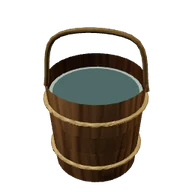
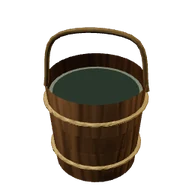
Avance: la col y el nabo mustios sin manchas oscuras (pajizos, bajos y abiertos); el agua del cubo, turbia y apagada; iconos-v29 otra vez con ella; la prueba del navegador espera más al cubo
Claude-Session: https://claude.ai/code/session_01Rt7ggQuNtkprJw3vKFqCwb

Changed region(s): [[0.25, 0.3438, 0.75, 0.5625]]

diff --git a/src/juego/campos_vista.js b/src/juego/campos_vista.js
@@ -178,16 +178,15 @@ const FORMAS = {};
 const forma = (cultivo, f, mustia = false) => (FORMAS[cultivo + f + (mustia ? 'm' : '')] ||= mustia ? mustiar(forma(cultivo, f)) : formaPlanta(cultivo, f));
 // La planta mustia (regar el huerto, P11b): sin agua desde hace días, las hojas caen y se abren (más baja y más ancha) y
 // pierden el verde hacia un pardo amarillento
-const MUSTIO = C(0x9a8a52);
+const MUSTIO = C(0xa89a5c);
 function mustiar(g0) {
   const g = g0.clone(), p = g.attributes.position, c = g.attributes.color;
   for (let i = 0; i < p.count; i++) {
     const y = p.getY(i), caida = Math.min(1, y / 0.25);
     p.setXYZ(i, p.getX(i) * (1 + 0.18 * caida), y * 0.6, p.getZ(i) * (1 + 0.18 * caida));
-    c.setXYZ(i, c.getX(i) + (MUSTIO.r - c.getX(i)) * 0.5, c.getY(i) + (MUSTIO.g - c.getY(i)) * 0.5, c.getZ(i) + (MUSTIO.b - c.getZ(i)) * 0.5);
+    c.setXYZ(i, c.getX(i) + (MUSTIO.r - c.getX(i)) * 0.55, c.getY(i) + (MUSTIO.g - c.getY(i)) * 0.55, c.getZ(i) + (MUSTIO.b - c.getZ(i)) * 0.55);
   }
-  g.computeVertexNormals();
-  return g;
+  return g;   // (sin rehacer las normales: las hojas van por las dos caras con la normal hacia arriba)
 }
 let matPlantas = null;
 // un número fijo (0–1) para un punto, para que cada planta salga siempre igual

diff --git a/src/juego/modelos_objetos.js b/src/juego/modelos_objetos.js
@@ -493,8 +493,8 @@ export function cuboEn(L, x, y, z, { lleno = false, giro = null, asa = 0.4 } = {
   // el agua: un disco algo por debajo del borde, oscuro y con brillo (refleja el cielo), y su orilla más clara
   if (lleno) {
     const h = alto * 0.84, rh = r0 + (r1 - r0) * 0.84;
-    pon(new THREE.CircleGeometry(rh * 0.95, D * 2), 0x3e5458, 0, h, 0, { x: -Math.PI / 2 }, { sinSuelo: true, plano: true, brillo: 1.25 });
-    pon(new THREE.RingGeometry(rh * 0.88, rh * 0.955, D * 2), 0x7d9494, 0, h + 0.001, 0, { x: -Math.PI / 2 }, { sinSuelo: true, plano: true });
+    pon(new THREE.CircleGeometry(rh * 0.95, D * 2), 0x2f3b38, 0, h, 0, { x: -Math.PI / 2 }, { sinSuelo: true, plano: true, brillo: 1.05 });
+    pon(new THREE.RingGeometry(rh * 0.88, rh * 0.955, D * 2), 0x5f6b62, 0, h + 0.001, 0, { x: -Math.PI / 2 }, { sinSuelo: true, plano: true });
   }
 }
 function cubo(n, id) {

diff --git a/pruebas/prueba_campos_navegador.py b/pruebas/prueba_campos_navegador.py
@@ -383,7 +383,7 @@ try:
         captura(A, f'{SALIDA}/PC_huerto_mustio_de_cerca.png')
         manos_vacias()
         coger(A, 'cubo', 1, 'mano:der')
-        comprobar('coge el cubo en la mano', esperar(A, EN_MANO('cubo'), 5000))
+        comprobar('coge el cubo en la mano', esperar(A, EN_MANO('cubo'), 15000))
         ir(A, x0 + 10.8, z0 + 7.3, 0)
         comprobar('con el cubo vacío, delante de la col, Usar no dice «Regar»', texto_usar(A) != 'Regar', texto_usar(A))
         rio = sitio_rio(x0 + 6, z0 + 5)
